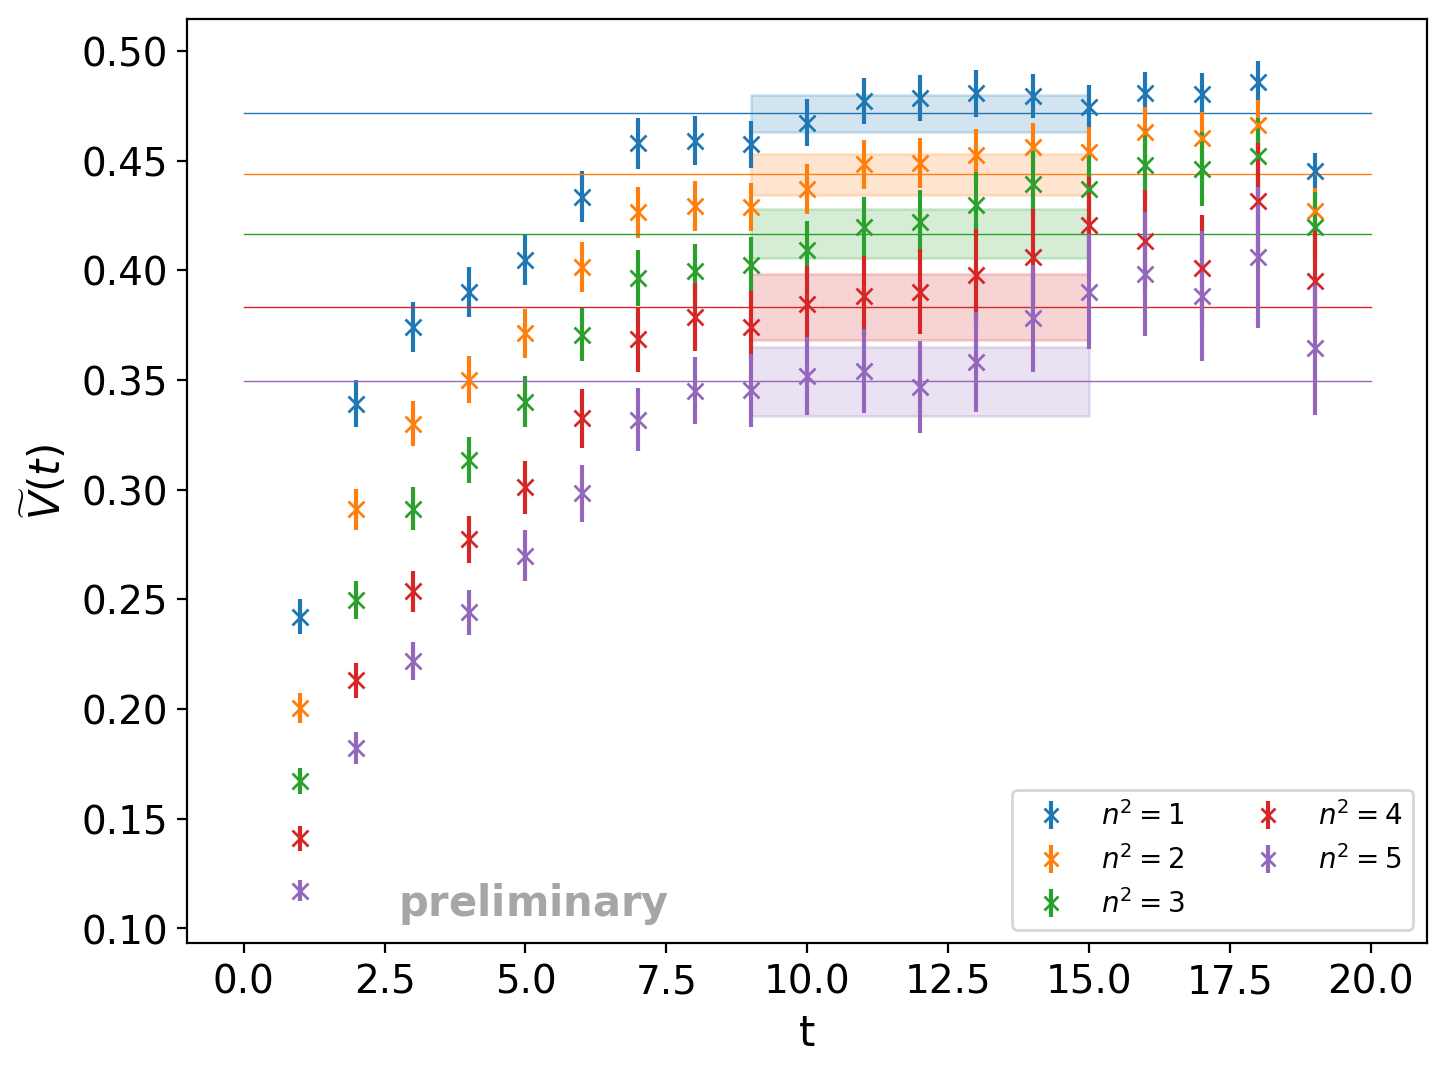
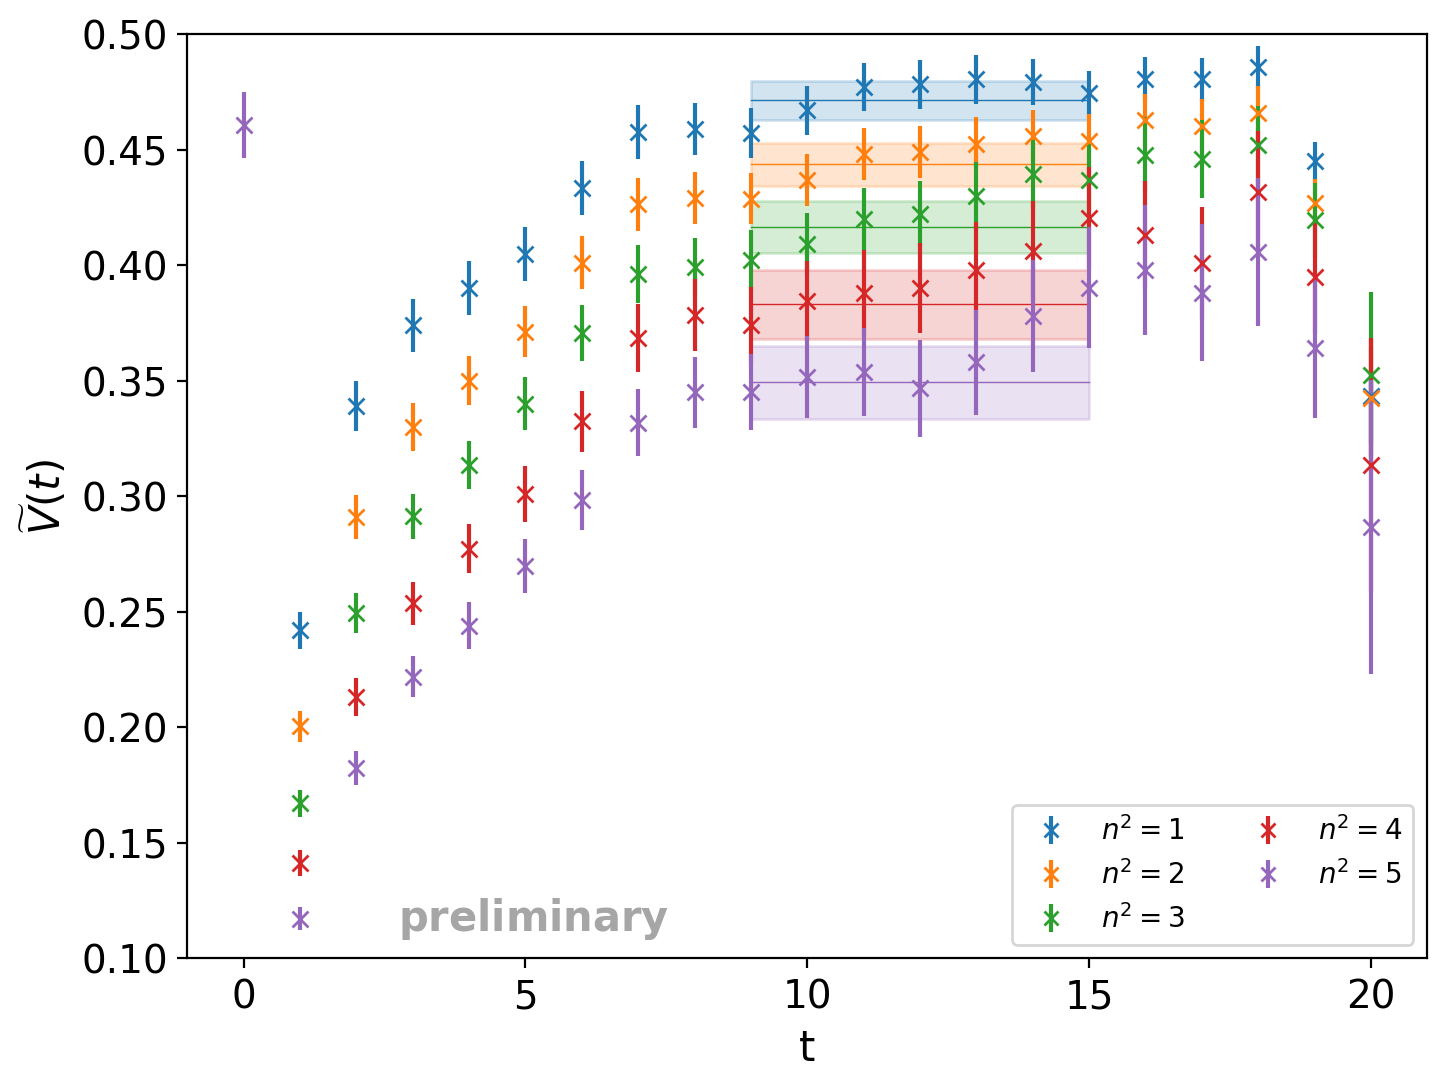
xx

diff --git a/Results/C1/0.400/niceplots-v-copy.py b/Results/C1/0.400/niceplots-v-copy.py
@@ -51,17 +51,20 @@ nsq_fit = {i: pd.read_csv(f'Fits/V/V-Av-nsq{i}-Fit-Disp-new.csv', sep='\s') for 
 plt.figure(figsize=(8,6))
 plt.xlabel('t', fontsize=15)
 plt.ylabel(r'$\widetilde{V}(t)$', fontsize=15)
+plt.xticks(np.arange(0, int(20) + 1, 5))  # force integer x-ticks
+    
 
 # Normale Daten
 for i in nsq:
-    plt.errorbar(range(1, 20), nsq[i][0][1:20], yerr=nsq[i][1][1:20],
+    t_all=np.arange(21)
+    plt.errorbar(t_all, nsq[i][0][0:21], yerr=nsq[i][1][0:21],
                  ls='none', fmt='x', label=fr'$n^2={i}$', color= colors[i-1 % len(colors)])
     
     fit = nsq_fit[i]
     eff, sigma = fit['EffectiveMass'], fit['Error']
     reg_low, reg_up = int(fit['RegLow']), int(fit['RegUp'])
 
-    plt.plot([0, 20], [eff, eff], color=colors[i-1 % len(colors)], linewidth=0.5)
+    plt.plot([reg_low, reg_up], [eff, eff], color=colors[i-1 % len(colors)], linewidth=0.5)
     plt.fill_between(range(47)[reg_low:reg_up+1], eff + sigma, eff - sigma,
                      color= colors[i-1 % len(colors)], alpha=0.2)
 
@@ -81,7 +84,7 @@ for i in nsq_disp:
 '''
 plt.annotate(r'$\bf{preliminary}$', xy=(0.17, 0.03), xycoords='axes fraction',
              fontsize=15, color='grey', alpha=.7)
-
+plt.ylim(0.1,0.5)
 plt.tick_params(axis='both', which='major', labelsize=14)
 plt.legend(fontsize=10, ncol=2, markerscale=0.8)
 plt.savefig('Niceplot-V-new.png', transparent=True, dpi=200, bbox_inches='tight')
